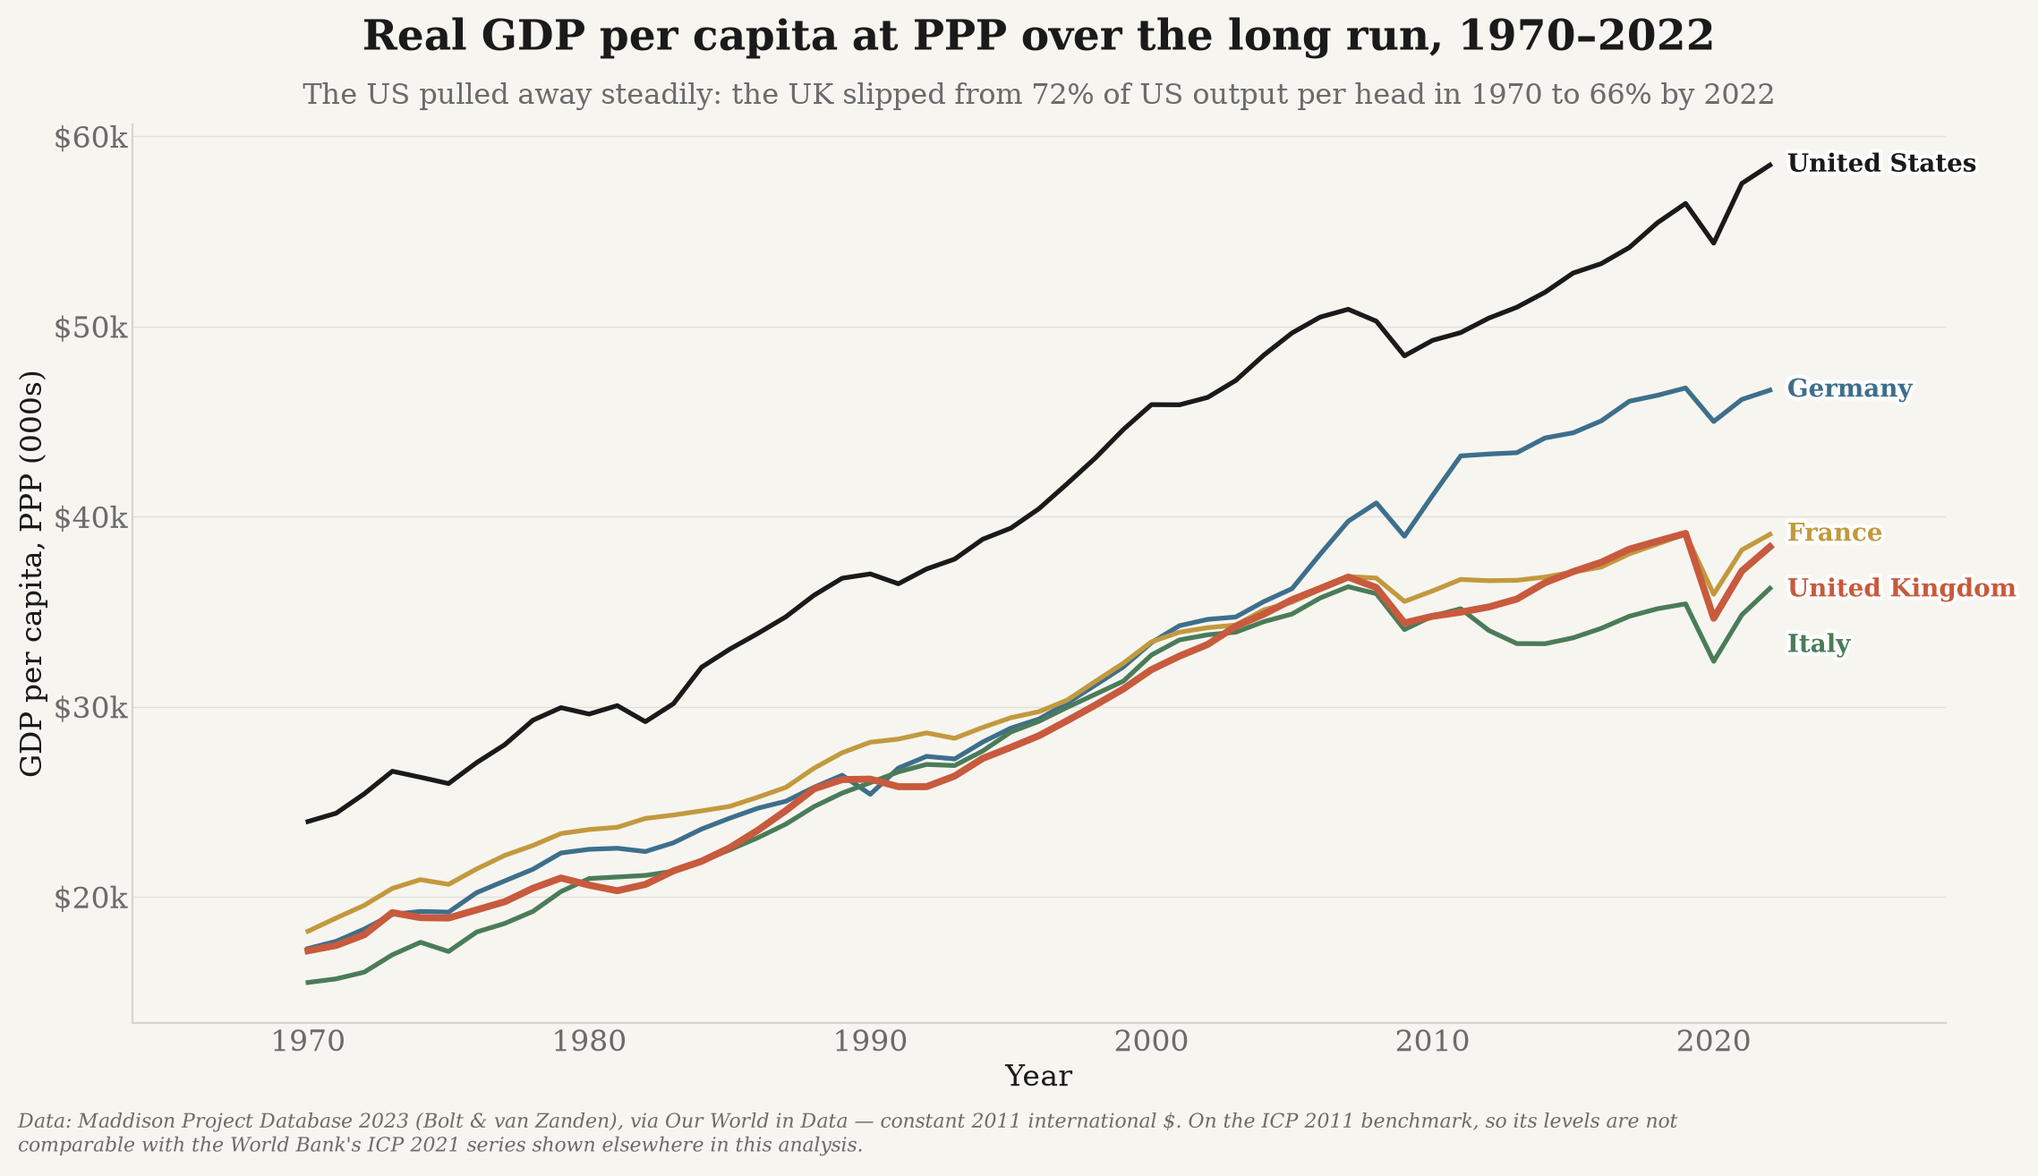
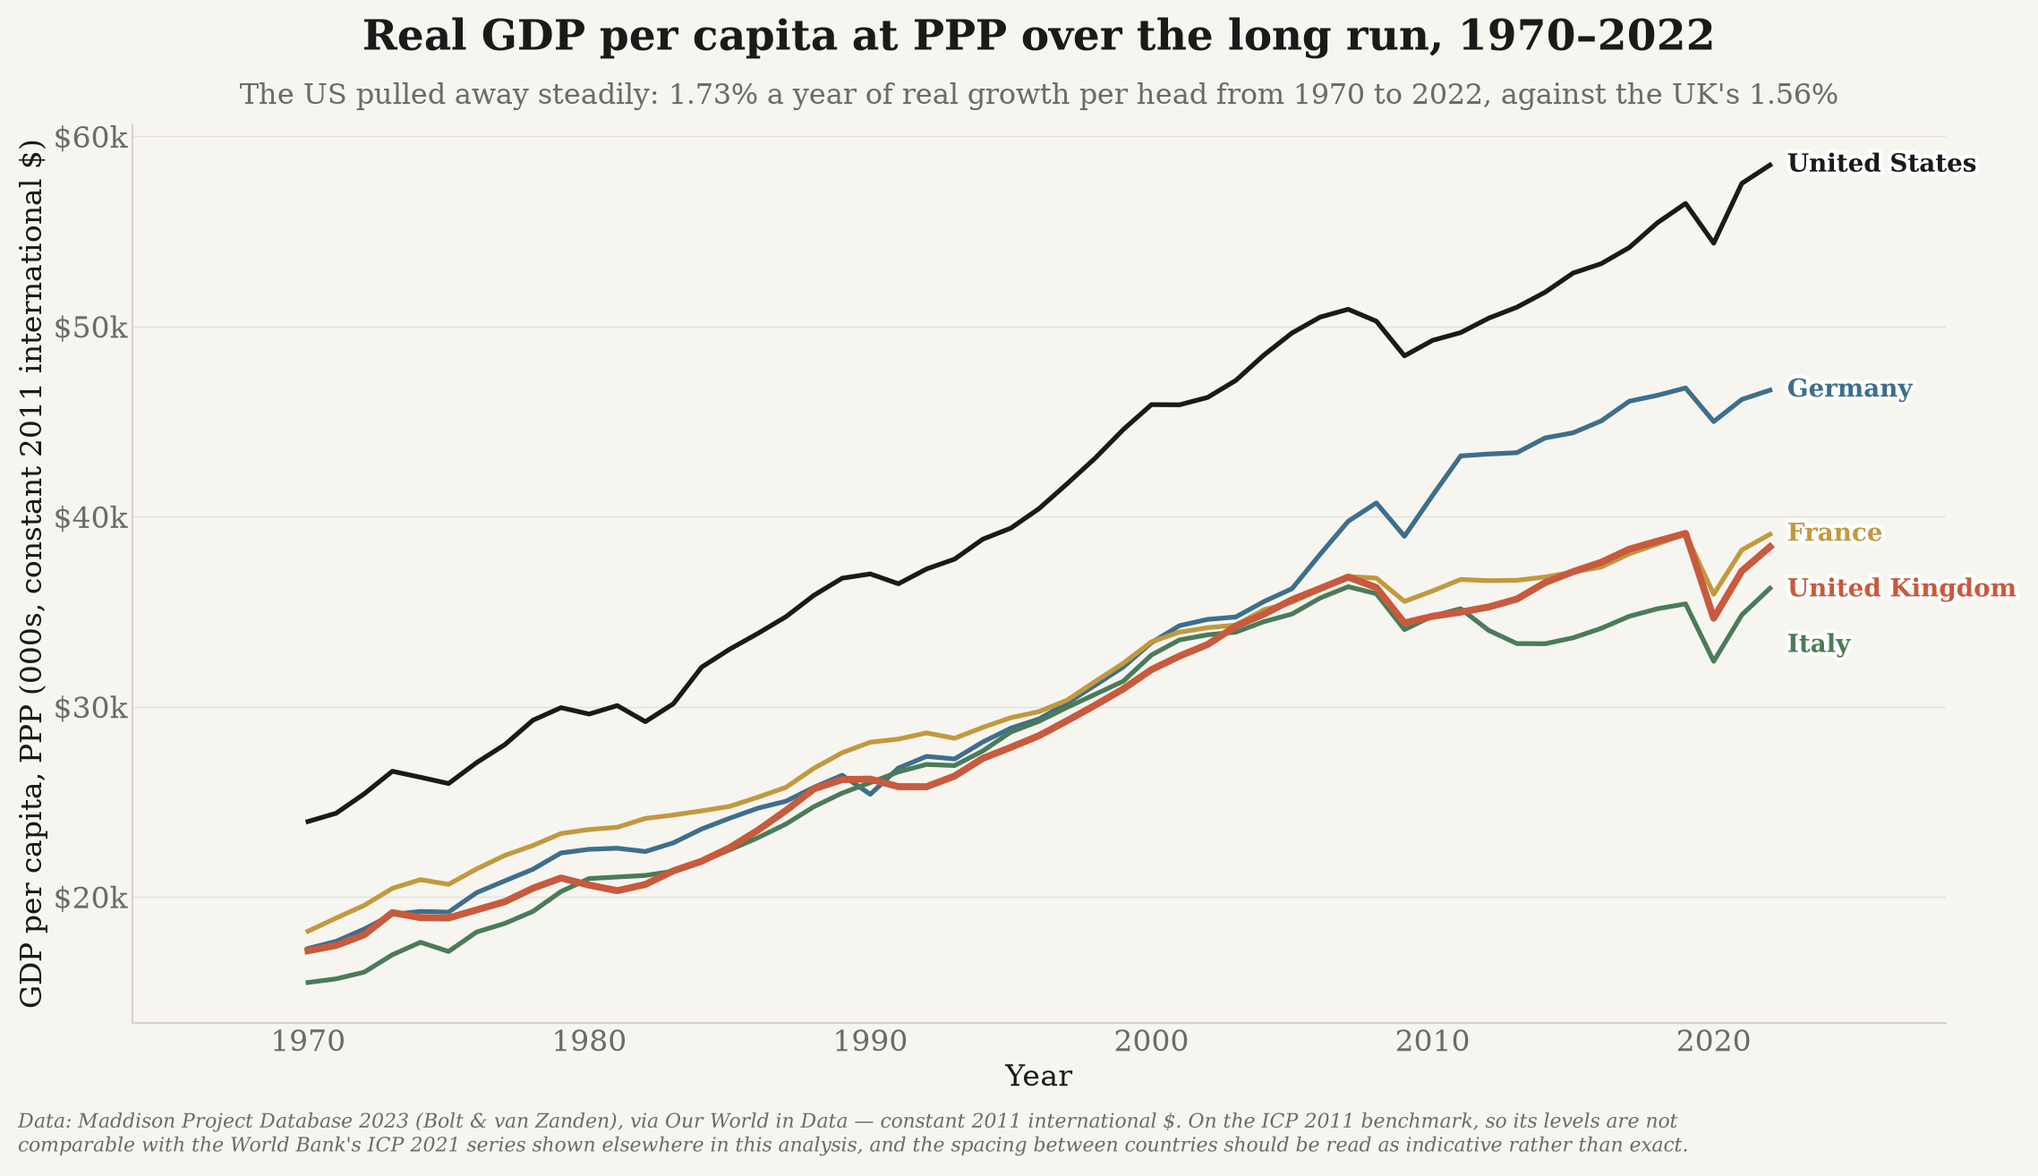
tuition ppp

diff --git a/ppp_data/charts.py b/ppp_data/charts.py
@@ -26,7 +26,9 @@ from pathlib import Path
 
 import matplotlib.ticker as mtick
 
-from vizstyle import ACCENT, BLUE, GRID, MUTED, TEXT, save_fig, source_note, white_stroke
+from vizstyle import (
+    ACCENT, BLUE, GREEN, GRID, MUTED, TEXT, save_fig, source_note, white_stroke,
+)
 
 from . import decompose, metrics, peers, series
 from .figure import labelled_ends, note as _note, span as _span, subtitle as _subtitle, themed_plt as _plt, tidy as _tidy
@@ -82,16 +84,20 @@ def chart_gdp_per_capita(rows: list[dict], out_dir: Path) -> Path | None:
                  fontweight="bold", pad=30)
     if uk_latest:
         _subtitle(ax, f"The UK reached ${uk_latest[1]:,.0f}k per head in {uk_latest[0]}, "
-                      "measured at domestic price levels")
+                      f"measured at domestic price levels and held at 2021 prices")
     labelled_ends(ax, labels, min_gap=max(v for v, _, _ in labels) * 0.045, x=last_x,
                   fontsize=10)
     ax.yaxis.set_major_formatter(mtick.FuncFormatter(lambda v, _: f"${v:,.0f}k"))
-    _tidy(ax, ylabel="GDP per capita, PPP (000s)")
+    _tidy(ax, ylabel=f"GDP per capita (000s, {meta.unit})")
     ax.margins(x=0.12)  # room on the right for the end labels
 
     source_note(fig, _note(
         f"{_WB} \u2014 GDP per capita, PPP ({meta.wb_indicator}), {meta.unit} "
-        f"[{meta.vintage} benchmark]."))
+        f"[{meta.vintage} benchmark].",
+        "This series is built for growth over time: the gaps between countries are anchored "
+        "to the 2021 benchmark and extrapolated away from it, so read the slopes rather than "
+        "the spacing. The companion chart 'GDP per capita relative to the UK at PPP' makes "
+        "the same-year comparison on the current-price series."))
     return save_fig(fig, out_dir / "ppp_gdp_per_capita_over_time.png")
 
 
@@ -155,33 +161,45 @@ def chart_relative_to_peers(rows: list[dict], out_dir: Path) -> Path | None:
 
 # ── 3. The two bases side by side ────────────────────────────────────────────
 def chart_ppp_vs_market_fx(rows: list[dict], out_dir: Path) -> Path | None:
-    """The UK as a share of the US, at market exchange rates and at PPP."""
+    """The UK as a share of the US on all three measures that matter.
+
+    Three lines, because two would mislead. The market-FX and PPP-level lines alone invite
+    the reading "the PPP line is the real story, so almost nothing was lost" — but the
+    current-price PPP line is a *level* comparison at each year's prices, and its movement is
+    not pure volume growth. The constant-price line is, and it falls considerably further.
+    Showing all three keeps this figure consistent with the decomposition chart, which splits
+    the market-FX fall using the volume series.
+    """
     fx_metric, ppp_metric = "gdp_per_capita_nominal_usd", "gdp_per_capita_ppp_current"
     metrics.require_cross_section(fx_metric)
     metrics.require_cross_section(ppp_metric)
 
     fx = series.ratio(rows, fx_metric, peers.UK, peers.US)
     ppp = series.ratio(rows, ppp_metric, peers.UK, peers.US)
-    years = [y for y in sorted(fx.keys() & ppp.keys()) if y >= START_YEAR]
+    real = series.ratio(rows, "gdp_per_capita_ppp_constant", peers.UK, peers.US, check=False)
+    years = [y for y in sorted(fx.keys() & ppp.keys() & real.keys()) if y >= START_YEAR]
     if not years:
-        return None  # both bases are needed to draw the comparison at all
+        return None
     fx_pct = [fx[y] * 100 for y in years]
     ppp_pct = [ppp[y] * 100 for y in years]
+    real_pct = [real[y] * 100 for y in years]
 
     plt = _plt()
     fig, ax = plt.subplots(figsize=(11.5, 6.5))
-    ax.fill_between(years, fx_pct, ppp_pct, color=MUTED, alpha=0.14, zorder=1)
+    ax.fill_between(years, fx_pct, ppp_pct, color=MUTED, alpha=0.13, zorder=1)
     ax.plot(years, fx_pct, color=ACCENT, linewidth=2.8, zorder=4)
     ax.plot(years, ppp_pct, color=BLUE, linewidth=2.8, zorder=4)
+    ax.plot(years, real_pct, color=GREEN, linewidth=2.2, linestyle="--", zorder=3)
+
     labelled_ends(ax, [(fx_pct[-1], "at market\nexchange rates", ACCENT),
-                       (ppp_pct[-1], "at PPP", BLUE)],
-                  min_gap=3.0, x=years[-1], fontsize=9.5)
+                       (ppp_pct[-1], "at PPP\n(living standards)", BLUE),
+                       (real_pct[-1], "real output\nper head", GREEN)],
+                  min_gap=4.5, x=years[-1], fontsize=9.5)
 
     peak_year = max(years, key=lambda y: fx[y])
     peak_pct = fx[peak_year] * 100
     ax.plot([peak_year], [peak_pct], "o", color=ACCENT, markersize=7,
             markeredgecolor="white", markeredgewidth=1.4, zorder=6)
-    # Anchored below-left of the peak: above it would run into the title block.
     ax.annotate(
         f"{peak_year}: the sterling peak\n{peak_pct:.0f}% of the US at market rates,\n"
         f"but only {ppp[peak_year]*100:.0f}% at PPP",
@@ -190,23 +208,24 @@ def chart_ppp_vs_market_fx(rows: list[dict], out_dir: Path) -> Path | None:
         arrowprops={"arrowstyle": "-", "color": MUTED, "linewidth": 0.9,
                     "connectionstyle": "arc3,rad=0.15"})
 
-    mid = (fx_pct[-1] + ppp_pct[-1]) / 2
-    ax.annotate("the gap is the\nexchange rate", xy=(years[-1] - 2, mid), fontsize=9.5,
-                color=MUTED, style="italic", ha="right", va="center",
-                path_effects=white_stroke())
-
+    # Every line on this axis is "UK as % of the US", so state all three the same way — as
+    # levels on that axis, not as a mix of levels and percentage changes.
+    real_then = real[peak_year] * 100
     ax.set_title("How much of the UK's fall against the US is real?",
                  fontweight="bold", pad=30)
     _subtitle(ax, f"At market rates the UK fell from {peak_pct:.0f}% of the US in "
-                  f"{peak_year} to {fx_pct[-1]:.0f}% in {years[-1]}; at PPP it went from "
-                  f"{ppp[peak_year]*100:.0f}% to {ppp_pct[-1]:.0f}%")
+                  f"{peak_year} to {fx_pct[-1]:.0f}%; in real output per head it slipped "
+                  f"from {real_then:.0f}% to {real_pct[-1]:.0f}%")
+
     ax.yaxis.set_major_formatter(mtick.FuncFormatter(lambda v, _: f"{v:.0f}%"))
     _tidy(ax, ylabel="UK GDP per capita as % of the US")
+    ax.margins(x=0.14)
 
     source_note(fig, _note(
-        f"{_WB} \u2014 GDP per capita in current US$ (NY.GDP.PCAP.CD) and in current "
-        f"international $ (NY.GDP.PCAP.PP.CD) [{metrics.ICP_VINTAGE} benchmark]. Same-year "
-        "ratios, so both are free of inflation.", _FRAMING))
+        f"{_WB} \u2014 NY.GDP.PCAP.CD (market rates), NY.GDP.PCAP.PP.CD (PPP levels) and "
+        f"NY.GDP.PCAP.PP.KD (real volumes), {metrics.ICP_VINTAGE} benchmark. The PPP-level "
+        "line compares living standards at each year's prices; only the constant-price line "
+        "isolates real output growth, which is why the two differ.", _FRAMING))
     return save_fig(fig, out_dir / "ppp_vs_market_fx_uk_us.png")
 
 
@@ -402,28 +421,34 @@ def chart_long_run(rows: list[dict], out_dir: Path) -> Path | None:
     labelled_ends(ax, labels, min_gap=max(v for v, _, _ in labels) * 0.05, x=last_x,
                   fontsize=10)
 
-    # The story this chart exists to tell: over half a century the UK converged with its
-    # European peers while the US pulled steadily away from all of them.
+    # The story this chart exists to tell: the US pulled steadily away from Europe. Stated as
+    # a growth comparison, not a level ratio: this series is `cross_section=False`, so the
+    # honest claim is about how fast each country grew, not how they stack up in any one year.
     uk = dict(zip(*plotted[peers.UK])) if plotted[peers.UK][0] else {}
     us = dict(zip(*plotted[peers.US])) if plotted[peers.US][0] else {}
-    subtitle_text = f"Benchmarked on Maddison's 2011 prices \u2014 a different vintage from the World Bank series, so the two are never spliced"
+    subtitle_text = ("Benchmarked on Maddison's 2011 prices \u2014 a different vintage from "
+                     "the World Bank series, so the two are never spliced")
     if uk and us:
-        first, last = min(uk.keys() & us.keys()), max(uk.keys() & us.keys())
-        a, b = uk[first] / us[first] * 100, uk[last] / us[last] * 100
-        subtitle_text = (f"The US pulled away steadily: the UK slipped from {a:.0f}% of US "
-                         f"output per head in {first} to {b:.0f}% by {last}")
+        shared = uk.keys() & us.keys()
+        first, last = min(shared), max(shared)
+        span = last - first
+        uk_cagr = ((uk[last] / uk[first]) ** (1 / span) - 1) * 100
+        us_cagr = ((us[last] / us[first]) ** (1 / span) - 1) * 100
+        subtitle_text = (f"The US pulled away steadily: {us_cagr:.2f}% a year of real growth "
+                         f"per head from {first} to {last}, against the UK's {uk_cagr:.2f}%")
 
     ax.set_title(f"Real GDP per capita at PPP over the long run, {_span(span_years)}",
                  fontweight="bold", pad=30)
     _subtitle(ax, subtitle_text)
     ax.yaxis.set_major_formatter(mtick.FuncFormatter(lambda v, _: f"${v:,.0f}k"))
-    _tidy(ax, ylabel="GDP per capita, PPP (000s)")
+    _tidy(ax, ylabel=f"GDP per capita, PPP (000s, {meta.unit})")
     ax.margins(x=0.12)
 
     source_note(fig, _note(
         "Data: Maddison Project Database 2023 (Bolt & van Zanden), via Our World in Data "
         f"\u2014 {meta.unit}. On the ICP 2011 benchmark, so its levels are not comparable "
-        "with the World Bank's ICP 2021 series shown elsewhere in this analysis."))
+        "with the World Bank's ICP 2021 series shown elsewhere in this analysis, and the "
+        "spacing between countries should be read as indicative rather than exact."))
     return save_fig(fig, out_dir / "ppp_gdp_long_run_maddison.png")
 
 

diff --git a/tests/test_ppp.py b/tests/test_ppp.py
@@ -640,21 +640,33 @@ def test_decomposition_real_component_equals_real_divergence() -> None:
 
 def test_validation_catches_a_non_volume_real_component() -> None:
     # The guard must fire if the decomposition is ever pointed back at a non-volume series.
+    # The fixture needs a genuine real divergence, otherwise understating it is undetectable.
     rows = _consistent_rows()
-    assert validate.check_decomposition_real_component_is_volume(rows).ok
+    for row in rows:
+        if (row["iso3"] == "GBR" and row["year"] == 2024
+                and row["metric"] in ("gdp_per_capita_ppp_constant",
+                                      "gdp_per_capita_nominal_usd")):
+            row["value"] *= 0.80  # a 20% real underperformance against the US
 
     from ppp_data import charts
 
     original = charts.uk_us_decomposition
-    def _wrong(rows_, start_year, end_year=None):
-        d = original(rows_, start_year, end_year)
-        return d._replace(log_real=d.log_real / 4.0)  # the old, understated split
-    charts.uk_us_decomposition = _wrong
+    baseline = validate.DECOMPOSITION_BASELINE_YEAR
+    validate.DECOMPOSITION_BASELINE_YEAR = 2007
     try:
+        assert validate.check_decomposition_real_component_is_volume(rows).ok
+
+        def _wrong(rows_, start_year, end_year=None):
+            d = original(rows_, start_year, end_year)
+            return d._replace(log_real=d.log_real / 4.0)  # the old, understated split
+
+        charts.uk_us_decomposition = _wrong
         check = validate.check_decomposition_real_component_is_volume(rows)
     finally:
         charts.uk_us_decomposition = original
+        validate.DECOMPOSITION_BASELINE_YEAR = baseline
     assert not check.ok and check.level == validate.ERROR
+    assert "not measuring real volume" in check.detail
 
 
 # ── Tuition ──────────────────────────────────────────────────────────────────
@@ -742,27 +754,12 @@ def test_extrapolated_years_are_reported_not_hidden() -> None:
     assert "1992" in check.detail and "extrapolated" in check.detail
 
 
-def test_charts_shade_the_pre_survey_era() -> None:
-    # The shading is what stops a projection reading as a measurement, so assert it is drawn
-    # for a pre-1996 range and not drawn for a wholly survey-backed one.
+def test_charts_do_not_reference_the_removed_shading_helper() -> None:
+    # The pre-survey shading was removed from the figures at the user's request; the caveat
+    # now lives in the README and the validation output instead of on the plots.
     from ppp_data import charts
 
-    class _Ax:
-        def __init__(self):
-            self.spans, self.lines, self.texts = [], [], []
-        def axvspan(self, a, b, **kw): self.spans.append((a, b))
-        def axvline(self, x, **kw): self.lines.append(x)
-        def get_xaxis_transform(self): return None
-        def text(self, *a, **kw): self.texts.append(a)
-
-    early = _Ax()
-    charts._mark_extrapolated_era(early, [1990, 1995, 2000, 2024])
-    assert early.spans == [(1990, metrics.SURVEY_FIRST_YEAR)]
-    assert early.lines == [metrics.SURVEY_FIRST_YEAR] and early.texts
-
-    late = _Ax()
-    charts._mark_extrapolated_era(late, [2000, 2010, 2024])
-    assert late.spans == [] and late.lines == [] and late.texts == []
+    assert not hasattr(charts, "_mark_extrapolated_era")
 
 
 def _run() -> int:

diff --git a/ppp_data/validate.py b/ppp_data/validate.py
@@ -264,8 +264,10 @@ def check_extrapolated_era_is_flagged(rows: list[dict]) -> Check:
     """Pre-survey years may be plotted, but the package must know they are extrapolated.
 
     A WARN, not an ERROR: showing the extrapolated era is legitimate — it is the only way to
-    reach back to 1990 — provided the figures and prose say so rather than presenting a
-    projection as an observation.
+    reach back to 1990 — provided the caveat is recorded somewhere the reader will meet it.
+    The figures no longer shade the era; the caveat lives in ``ppp_data/README.md`` and in
+    this line of the validation output, and ``check_survey_backed_headline_years`` is what
+    actually prevents a headline claim from resting on it.
     """
     from . import metrics as _metrics
 
@@ -280,8 +282,8 @@ def check_extrapolated_era_is_flagged(rows: list[dict]) -> Check:
     return Check(
         "extrapolated_era_is_flagged", True, WARN,
         f"{len(early)} plotted year(s) ({early[0]}-{early[-1]}) predate "
-        f"{_metrics.SURVEY_FIRST_YEAR} and are extrapolated, not surveyed; charts covering "
-        "them must mark the boundary",
+        f"{_metrics.SURVEY_FIRST_YEAR} and are extrapolated rather than surveyed; no headline "
+        "claim is anchored on them (see survey_backed_headline_years)",
     )
 
 

diff --git a/ppp_data/README.md b/ppp_data/README.md
@@ -48,12 +48,19 @@ per head grew **0.42% a year** from 2007 to 2025 against the US's **1.27%**, so 
 This is a genuine qualification of the headline story, and it is reported as such. It is
 *not* a clean bill of health: see [what this does and does not mean](#what-this-does-and-does-not-mean).
 
-### The two views side by side
-![UK vs US at market rates and at PPP](../outputs/ppp/ppp_vs_market_fx_uk_us.png)
+### The three views side by side
+![UK vs US at market rates, at PPP and in real volume](../outputs/ppp/ppp_vs_market_fx_uk_us.png)
 
-The shaded gap between the lines *is* the currency effect. The UK's 2007 "parity with the
-US" was substantially a strong-pound artefact: in the same year, at PPP, the UK was only 74%
-of the US.
+The shaded gap between the market-rate and PPP-level lines *is* the currency effect. The UK's
+2007 "parity with the US" was substantially a strong-pound artefact: in the same year, at PPP,
+the UK was only 74% of the US.
+
+The figure carries a third line for the reason set out in the correction above. Two lines
+would invite the reading "the PPP line is the real story, so almost nothing was lost" — but
+the PPP-level line is a *level* comparison at each year's prices, and its movement is not pure
+volume. The dashed constant-price line is, and it falls considerably further: from **82% of
+the US in 2007 to 70% in 2025**. That third line is the quantity the decomposition chart
+splits out, so the two figures now tell the same story.
 
 ### How expensive is Britain?
 ![Price level index](../outputs/ppp/price_level_index.png)
@@ -115,8 +122,8 @@ inflation path — not a systematic gap.
 Consequences, enforced in code:
 
 - `metrics.SURVEY_FIRST_YEAR = 1996`, with the evidence recorded alongside it.
-- The four charts that reach back before 1996 **shade that era and label it** "PPPs
-  extrapolated, not surveyed", so a projection can never read as a measurement.
+- The extrapolated era is documented here and reported in every validation run, rather than
+  shaded on the figures (the shading was removed as visual clutter).
 - `validate.check_survey_backed_headline_years` **fails the run** if the decomposition's
   baseline drifts into the extrapolated era. The headline anchors (2007 and 2025) are both
   survey-backed; so are the UK price-level peak (2007) and the tuition comparison (2022).
@@ -129,6 +136,11 @@ Consequences, enforced in code:
 The World Bank's PPP series starts in 1990. The Maddison Project reaches back to 1970 but is
 benchmarked on **2011** international dollars rather than the World Bank's 2021, so it gets
 its own chart and is never spliced onto the World Bank line.
+
+Both level charts are drawn from constant-price series, which the metric registry marks
+`cross_section=False`. Read them for **slopes, not spacing**: the country gaps are anchored to
+the benchmark year and extrapolated away from it. The same-year comparison belongs to the
+current-price chart above, and each figure's source note says which it is.
 
 ### Tuition
 ![Tuition at PPP](../outputs/ppp/ppp_tuition_history.png)
@@ -238,7 +250,8 @@ A representative passing run:
 | # | Hazard | How it is handled |
 |---|---|---|
 | A | Current international $ embed worldwide inflation | Barred from level charts by `require_over_time`; enforced by test |
-| N | **PPPs are surveyed, not observed every year.** Pre-1996 values are extrapolated from a later benchmark and contain no independent price observation | Boundary established empirically (see above); `SURVEY_FIRST_YEAR = 1996`; the pre-survey era is shaded and labelled on every chart that reaches it; a check fails the run if a headline anchor falls in it |
+| N | **PPPs are surveyed, not observed every year.** Pre-1996 values are extrapolated from a later benchmark and contain no independent price observation | Boundary established empirically (see above); `SURVEY_FIRST_YEAR = 1996`; a check **fails the run** if a headline anchor falls in it, and every run reports how many plotted years are extrapolated |
+| O | **"Real" can mean two different things.** The current-price PPP ratio moves with both volume growth *and* the PPP price structure; only the constant-price series is pure volume | The decomposition's real component uses the constant-price series, and `decomposition_real_is_volume` recomputes the divergence from each country's own growth rates and fails if they disagree |
 | B | **ICP benchmark revisions** (2011 → 2017 → 2021) shift levels *retroactively* | Vintages are never spliced; every figure names its vintage in the source note. Figures here are **not** comparable with PPP numbers published under an earlier round |
 | C | Maddison uses the 2011 benchmark | Its own chart; never joined to a World Bank line |
 | D | World Bank PPP starts in 1990 | PPP charts start in 1990 and say so; Maddison covers the earlier period separately |
